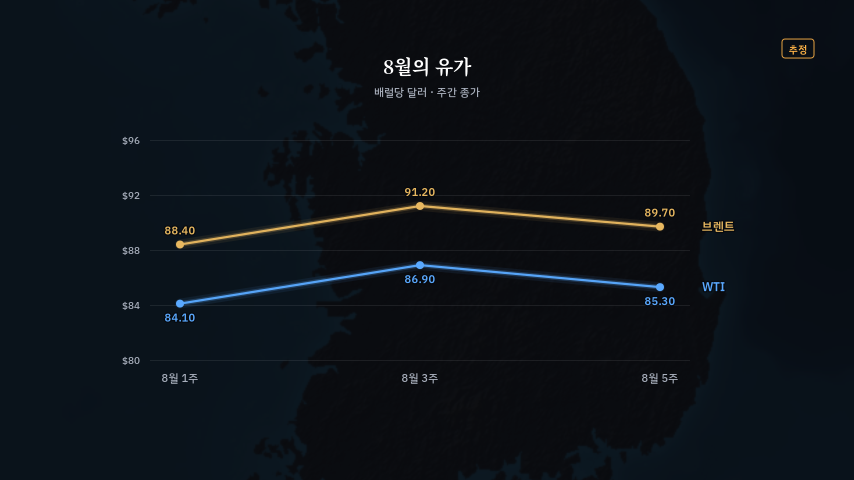
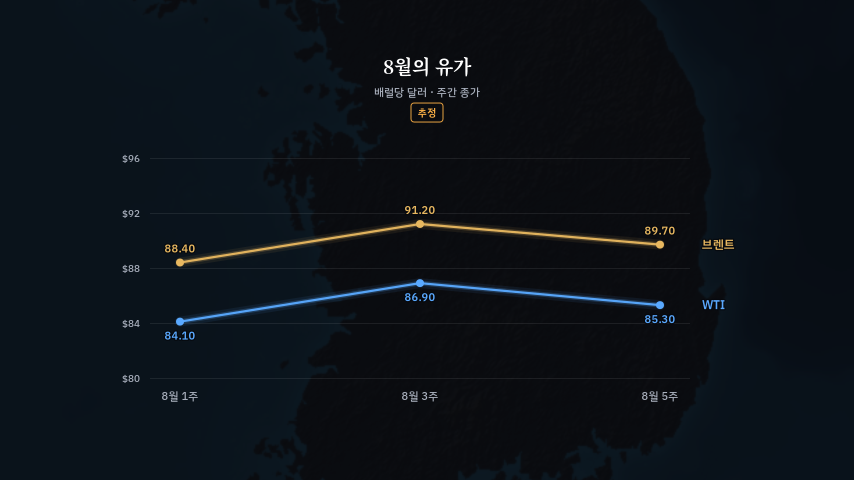
v2.5.0: D-0034 — 추정 태그 제목 아래 가운데(08 §9 우상단 제거), <미검증> 검증 라벨 별개 상자, 태그 줄 있는 차트만 본문 이동(panels.prov_tag), 갤러리 갱신 (back_and_forth D-0034)
Claude-Session: https://claude.ai/code/session_0147v8bbQQSmzdbLyTubyZfo

diff --git a/engine/panels/base.py b/engine/panels/base.py
@@ -13,7 +13,7 @@ from engine.timebase import window
 from engine.typography import text
 from rules import load_rules
 
-_CHARTS = load_rules().panels.charts
+_TAG = load_rules().panels.prov_tag
 
 PanelFn = Callable[[cairo.Context, RenderCtx, float, dict, float], None]
 
@@ -65,20 +65,74 @@ def prov_tag_text(pv: dict | None) -> str | None:
     return "추정" if pv["sources"] else "추정 · 출처 미기재"
 
 
-def prov_tag(ctx: cairo.Context, e: dict, a: float) -> str | None:
-    """추정/출처 태그(v2 `prov_tag` 공통화). 그린 문구를 돌려준다(provenance panels.used[].tag)."""
-    s = prov_tag_text(e.get("provenance"))
-    if s is None or a <= 0.01:
-        return s
-    from engine.typography import rrect, tw  # noqa: PLC0415
+def claim_label(pv: dict | None) -> str | None:
+    """사실 검증 라벨(<미검증> 등, C9) — 추정 태그와 별개(D-0034 §3)."""
+    if pv is None or not pv.get("claim_status"):
+        return None
+    from schemas.models import CLAIM_STATUS_LABELS  # noqa: PLC0415
 
-    T = _CHARTS.prov_tag  # noqa: N806
-    w = tw(ctx, s, T.size, "sansb")
-    x = W_OUT - T.x_right
-    col = C[T.color]
-    rrect(ctx, x - w - T.pad_x, T.y + T.box_dy, w + T.pad_x, T.h, T.r)
-    ctx.set_source_rgba(*col, T.alpha * a)
-    ctx.set_line_width(T.line_width)
-    ctx.stroke()
-    text(ctx, s, x - T.pad_x / 2, T.y + T.text_dy, T.size, "sansb", col, a, 0, "r")
-    return s
+    return CLAIM_STATUS_LABELS[pv["claim_status"]]
+
+
+def tag_row_y(e: dict) -> float:
+    """태그 줄 기준선 — 제목(부제가 있으면 부제) 기준선 + y_offset_px (D-0034 anchor below_title)."""
+    return (PANEL.subtitle_y if e.get("subtitle") else PANEL.title_y) + _TAG.y_offset_px
+
+
+def body_shift(e: dict) -> float:
+    """태그 줄(추정 태그·검증 라벨)이 있는 패널만 본문을 내린다 — 모든 차트 같은 값(D-0034 §2)."""
+    if prov_tag_text(e.get("provenance")) is None and claim_label(e.get("provenance")) is None:
+        return 0.0
+    return _TAG.body_top_px_with_tag - _TAG.body_top_px
+
+
+def tag_boxes(ctx: cairo.Context, e: dict) -> list[tuple[str, str, tuple[float, float, float, float]]]:
+    """(문구, 색 이름, 상자) — 검증 라벨, 추정 태그 순으로 가운데 정렬."""
+    from engine.typography import tw  # noqa: PLC0415
+
+    T = _TAG  # noqa: N806
+    pv = e.get("provenance")
+    items = [(s, c) for s, c in ((claim_label(pv), T.claim_color), (prov_tag_text(pv), T.color)) if s]
+    if not items:
+        return []
+    ws = [tw(ctx, s, T.size, T.font) + T.pad_x for s, _ in items]
+    total = sum(ws) + T.gap_px * (len(ws) - 1)
+    x = W_OUT / 2 - total / 2
+    y = tag_row_y(e)
+    out = []
+    for (s, c), w in zip(items, ws):
+        out.append((s, c, (x, y + T.box_dy, x + w, y + T.box_dy + T.h)))
+        x += w + T.gap_px
+    return out
+
+
+def prov_tag(ctx: cairo.Context, e: dict, a: float) -> str | None:
+    """추정/출처 태그(v2 `prov_tag` 공통화, 08 §9) + 사실 검증 라벨. 위치는 제목 아래 가운데(D-0034).
+    그린 추정 태그 문구를 돌려준다(provenance panels.used[].prov_tag)."""
+    from engine.typography import rrect  # noqa: PLC0415
+
+    T = _TAG  # noqa: N806
+    if a > 0.01:
+        for s, cname, (x0, y0, x1, y1) in tag_boxes(ctx, e):
+            col = C[cname]
+            rrect(ctx, x0, y0, x1 - x0, y1 - y0, T.r)
+            ctx.set_source_rgba(*col, T.alpha * a)
+            ctx.set_line_width(T.border_px)
+            ctx.stroke()
+            text(ctx, s, (x0 + x1) / 2, y0 - T.box_dy, T.size, T.font, col, a, 0, "c")
+    return prov_tag_text(e.get("provenance"))
+
+
+def chart(body: PanelFn) -> PanelFn:
+    """차트 패널 공통 머리 — 제목(중앙 상단) → 태그 줄 → 본문(태그 줄이 있으면 body_shift 만큼 아래로, D-0034 §2)."""
+
+    def draw(ctx: cairo.Context, R: RenderCtx, t: float, e: dict, a: float) -> None:  # noqa: N803
+        panel_title(ctx, a, e["title"], e.get("subtitle"))
+        prov_tag(ctx, e, a)
+        ctx.save()
+        ctx.translate(0, body_shift(e))
+        body(ctx, R, t, e, a)
+        ctx.restore()
+
+    draw.__name__ = body.__name__
+    return draw

diff --git a/tests/test_charts_phase6.py b/tests/test_charts_phase6.py
@@ -106,3 +106,52 @@ class ChartModelTest(unittest.TestCase):
 
 if __name__ == "__main__":
     unittest.main()
+
+
+class ProvTagPlacementTest(unittest.TestCase):
+    """D-0034(D37) — 태그는 제목 아래 가운데, 모서리 HUD 와 겹침 0, <미검증> 라벨과 별개로 둘 다 그린다."""
+
+    def test_below_title_not_corner(self) -> None:
+        import cairo
+
+        from engine.panels.base import body_shift, tag_boxes
+        from engine.style import DATE_BADGE, PANEL, W_OUT
+
+        ctx = cairo.Context(cairo.ImageSurface(cairo.FORMAT_ARGB32, 1, 1))
+        for k in KINDS:
+            e = validate_events([_ex(k)])[0]
+            boxes = tag_boxes(ctx, e)
+            if not boxes:
+                self.assertEqual(body_shift(e), 0.0, k)   # 태그 없는 패널은 본문 무변경
+                continue
+            x0 = min(b[2][0] for b in boxes)
+            x1 = max(b[2][2] for b in boxes)
+            self.assertAlmostEqual((x0 + x1) / 2, W_OUT / 2, places=6)       # 가운데
+            top = min(b[2][1] for b in boxes)
+            self.assertGreater(top, (PANEL.subtitle_y if e.get("subtitle") else PANEL.title_y))   # 제목·부제 아래
+            self.assertGreater(top, DATE_BADGE.underline_y)                   # 날짜 배지(모서리)와 겹침 0
+            self.assertGreater(body_shift(e), 0.0)
+
+    def test_claim_label_and_tag_both_drawn(self) -> None:
+        import cairo
+
+        from engine.panels.base import tag_boxes
+
+        e = validate_events([_ex("gantt")])[0]
+        ctx = cairo.Context(cairo.ImageSurface(cairo.FORMAT_ARGB32, 1, 1))
+        self.assertEqual([b[0] for b in tag_boxes(ctx, e)], ["<미검증>", "추정 · 출처 미기재"])
+        # 갤러리 PNG 에 두 상자 모두 실제로 칠해졌다(ru·amber 테두리 픽셀)
+        from PIL import Image
+
+        from engine.style import C
+
+        im = Image.open(REPO / "docs" / "handoff" / "reports" / "phase6" / "panels" / "gantt.png").convert("RGB")
+        for _, cname, (x0, y0, x1, y1) in tag_boxes(ctx, e):
+            want = tuple(round(v * 255) for v in C[cname])
+            def dist(px: tuple) -> float:   # 1px 테두리는 두 줄로 번져 밝기가 준다 — 밝기를 맞춘 뒤 색만 비교
+                k = max(px) / max(want)
+                return sum(abs(px[i] - want[i] * k) for i in range(3)) if k > 0.3 else 999.0
+
+            cols = range(int(x0) + 4, int(x1) - 4)
+            best = [min(dist(im.getpixel((x, y))) for y in range(int(y0) - 1, int(y0) + 2)) for x in cols]
+            self.assertGreater(sum(1 for d in best if d < 40), len(best) // 2, cname)   # 윗변이 그 색으로 칠해졌다

diff --git a/schemas/rules_models.py b/schemas/rules_models.py
@@ -352,19 +352,24 @@ class TextAt(_Strict):
 
 
 class ProvTagRules(_Strict):
-    """08 §9 추정 태그 — 좌표는 R-0031 결정 대기(08 §9 명세값)."""
+    """08 §9 추정 태그 — 위치는 D-0034(D37): 제목 아래 가운데. 모서리(HUD) 아님."""
 
-    x_right: float
-    y: float
+    anchor: Literal["below_title"]
+    y_offset_px: float
+    align: Literal["center"]
+    font: str
     size: float
+    color: str
+    border_px: float
+    alpha: float
     pad_x: float
     h: float
-    box_dy: float                  # 상자 위 끝 = y + box_dy
-    text_dy: float
+    box_dy: float
     r: float
-    line_width: float
-    alpha: float
-    color: str
+    gap_px: float
+    claim_color: str
+    body_top_px: float
+    body_top_px_with_tag: float
 
 
 class DotsRules(_Strict):
@@ -529,7 +534,6 @@ class NetworkRules(_Strict):
 
 
 class ChartRules(_Strict):
-    prov_tag: ProvTagRules
     dots: DotsRules
     gantt: GanttRules
     dual_line: DualLineRules
@@ -542,6 +546,7 @@ class PanelRules(_Strict):
     relation: RelationPanelRules
     timeline: TimelinePanelRules
     reserved: ReservedRules
+    prov_tag: ProvTagRules
     charts: ChartRules
 
 

diff --git a/engine/panels/network.py b/engine/panels/network.py
@@ -15,7 +15,7 @@ import cairo
 
 from engine.context import RenderCtx
 from engine.layers.badges import badge_at
-from engine.panels.base import edge_curve, panel_title, prov_tag
+from engine.panels.base import chart, edge_curve
 from engine.style import C
 from engine.timebase import ease_io, smooth
 from engine.typography import text
@@ -43,10 +43,9 @@ def edge_start(e: dict) -> float:
     return max(p[3] for p in layout(e).values()) + REL.edges_after_nodes_sec
 
 
+@chart
 def draw(ctx: cairo.Context, R: RenderCtx, t: float, e: dict, a: float) -> None:  # noqa: N803
     lt = t - e["t0"]
-    panel_title(ctx, a, e["title"], e.get("subtitle"))
-    prov_tag(ctx, e, a)
     pos = layout(e)
     s0 = edge_start(e)
     for k, ed in enumerate(e["edges"]):

diff --git a/engine/panels/dual_line.py b/engine/panels/dual_line.py
@@ -9,7 +9,7 @@ import numpy as np
 
 from engine.context import RenderCtx
 from engine.layers.routes import glow_line
-from engine.panels.base import panel_title, prov_tag
+from engine.panels.base import chart
 from engine.style import C
 from engine.timebase import clamp01, ease_io
 from engine.typography import text
@@ -22,10 +22,9 @@ def _fmt(v: float, prefix: str, decimals: int) -> str:
     return f"{prefix}{v:.{decimals}f}"
 
 
+@chart
 def draw(ctx: cairo.Context, R: RenderCtx, t: float, e: dict, a: float) -> None:  # noqa: N803
     lt = t - e["t0"]
-    panel_title(ctx, a, e["title"], e.get("subtitle"))
-    prov_tag(ctx, e, a)
     X0, X1 = L.x  # noqa: N806
     Y0, Y1 = L.y  # noqa: N806
     lo, hi = e["y_min"], e["y_max"]

diff --git a/engine/panels/fork.py b/engine/panels/fork.py
@@ -9,7 +9,7 @@ import numpy as np
 
 from engine.context import RenderCtx
 from engine.layers.routes import glow_line
-from engine.panels.base import panel_title, prov_tag
+from engine.panels.base import chart
 from engine.style import C
 from engine.timebase import ease_io, smooth
 from engine.typography import rrect, text
@@ -18,10 +18,9 @@ from rules import load_rules
 F = load_rules().panels.charts.fork
 
 
+@chart
 def draw(ctx: cairo.Context, R: RenderCtx, t: float, e: dict, a: float) -> None:  # noqa: N803
     lt = t - e["t0"]
-    panel_title(ctx, a, e["title"], e.get("subtitle"))
-    prov_tag(ctx, e, a)
     ox, oy = F.origin
     ctx.arc(ox, oy, F.origin_r, 0, 2 * math.pi)
     ctx.set_source_rgba(*C["gold"], a)

diff --git a/engine/panels/checklist.py b/engine/panels/checklist.py
@@ -5,7 +5,7 @@ from __future__ import annotations
 import cairo
 
 from engine.context import RenderCtx
-from engine.panels.base import panel_title, prov_tag
+from engine.panels.base import chart
 from engine.style import C
 from engine.timebase import ease_out, smooth
 from engine.typography import rrect, text
@@ -14,10 +14,9 @@ from rules import load_rules
 K = load_rules().panels.charts.checklist
 
 
+@chart
 def draw(ctx: cairo.Context, R: RenderCtx, t: float, e: dict, a: float) -> None:  # noqa: N803
     lt = t - e["t0"]
-    panel_title(ctx, a, e["title"], e.get("subtitle"))
-    prov_tag(ctx, e, a)
     b = K.box
     for i, s_ in enumerate(e["items"]):
         y = K.y0 + i * K.dy

diff --git a/engine/panels/gantt.py b/engine/panels/gantt.py
@@ -7,7 +7,7 @@ from datetime import date
 import cairo
 
 from engine.context import RenderCtx
-from engine.panels.base import panel_title, prov_tag
+from engine.panels.base import chart
 from engine.style import C
 from engine.timebase import clamp01, ease_out, smooth
 from engine.typography import rrect, text
@@ -20,10 +20,9 @@ def _d(s: str) -> date:
     return date(*map(int, s.split("-")))
 
 
+@chart
 def draw(ctx: cairo.Context, R: RenderCtx, t: float, e: dict, a: float) -> None:  # noqa: N803
     lt = t - e["t0"]
-    panel_title(ctx, a, e["title"], e.get("subtitle"))
-    prov_tag(ctx, e, a)
     x0, x1 = G.x
     d0, d1 = _d(e["axis_start"]), _d(e["axis_end"])
 

diff --git a/engine/panels/dots.py b/engine/panels/dots.py
@@ -7,7 +7,7 @@ import math
 import cairo
 
 from engine.context import RenderCtx
-from engine.panels.base import panel_title, prov_tag
+from engine.panels.base import chart
 from engine.style import C
 from engine.timebase import smooth
 from engine.typography import text
@@ -16,10 +16,9 @@ from rules import load_rules
 D = load_rules().panels.charts.dots
 
 
+@chart
 def draw(ctx: cairo.Context, R: RenderCtx, t: float, e: dict, a: float) -> None:  # noqa: N803
     lt = t - e["t0"]
-    panel_title(ctx, a, e["title"], e.get("subtitle"))
-    prov_tag(ctx, e, a)
     rows, cols = D.grid
     x0, y0 = D.origin
     for i in range(rows * cols):

diff --git a/engine/events.py b/engine/events.py
@@ -380,6 +380,8 @@ class ChartProvenance(_Strict):
 
     verification: Literal["verified", "estimated"]
     sources: list[str] = Field(default_factory=list)
+    # 사실 검증 라벨(C9, docs/06 §6 — <추론>/<주장>/<미검증>/<반박됨>). 추정 태그와 별개 장치로 같은 줄에 따로 그린다(D-0034 §3)
+    claim_status: Optional[Literal["inferred", "claim", "unverified", "disputed"]] = None
 
 
 class _Chart(_Panel):

diff --git a/CHANGELOG.md b/CHANGELOG.md
@@ -36,7 +36,7 @@ released 항목은 **append-only**입니다.
 
 - 연표 자동 층 배치: 사건에 `side` 가 없으면 라벨 폭을 실측해 겹치지 않는 가장 안쪽 층(±1~±3)을 고른다. 데이터가 준 층은 그대로(P8). 빈 층이 없거나 준 층끼리 겹치면 경고. 연표 수치는 `panels.timeline`.
 - 카드 RESERVED: 카드·기사 카드가 떠 있는 동안 그 영역을 지도 뱃지가 최소 이동으로 비키고(없으면 흐림), 마커 라벨은 흐린다. 카드가 사라지면 제자리. 규칙 `panels.reserved`, provenance `reserved.avoidance`, `lint_warnings`. 증명 도구 `tools/reserved_proof.py`.
-- v2 번들 차트 이식: `dots`·`gantt`·`dual_line`·`fork`·`checklist`·`network` 패널(모델·렌더러·`prompts/examples/panels/` 예시·프리뷰 PNG). `network` 는 정돈된 관계선 규칙으로 고쳤고 노드는 엔티티 레지스트리 뱃지만 쓴다(문자 원 금지). 수치는 `panels.charts`. 추정 태그 `prov_tag` 공통(위치는 R-0031 결정 대기). provenance `panels.used[]`. 갤러리 `tools/panel_gallery.py`.
+- v2 번들 차트 이식: `dots`·`gantt`·`dual_line`·`fork`·`checklist`·`network` 패널(모델·렌더러·`prompts/examples/panels/` 예시·프리뷰 PNG). `network` 는 정돈된 관계선 규칙으로 고쳤고 노드는 엔티티 레지스트리 뱃지만 쓴다(문자 원 금지). 수치는 `panels.charts`. 추정 태그 `prov_tag` 공통 — 위치는 제목 아래 가운데(D37, 모서리는 날짜만), `<미검증>` 등 검증 라벨(`provenance.claim_status`)은 같은 줄의 별개 상자. 태그 줄이 있는 패널만 본문을 규칙 값 하나(`panels.prov_tag`)로 내린다. provenance `panels.used[]`. 갤러리 `tools/panel_gallery.py`.
 
 ### Changed
 - hormuz review 장면 "부산에서 출항" 뱃지를 v3 임시 좌표(125.6E 22.3N)에서 실제 부산(129.04E 35.10N)으로 되돌림(D36). 15·16컷은 `expected_deltas.json` 등재.
